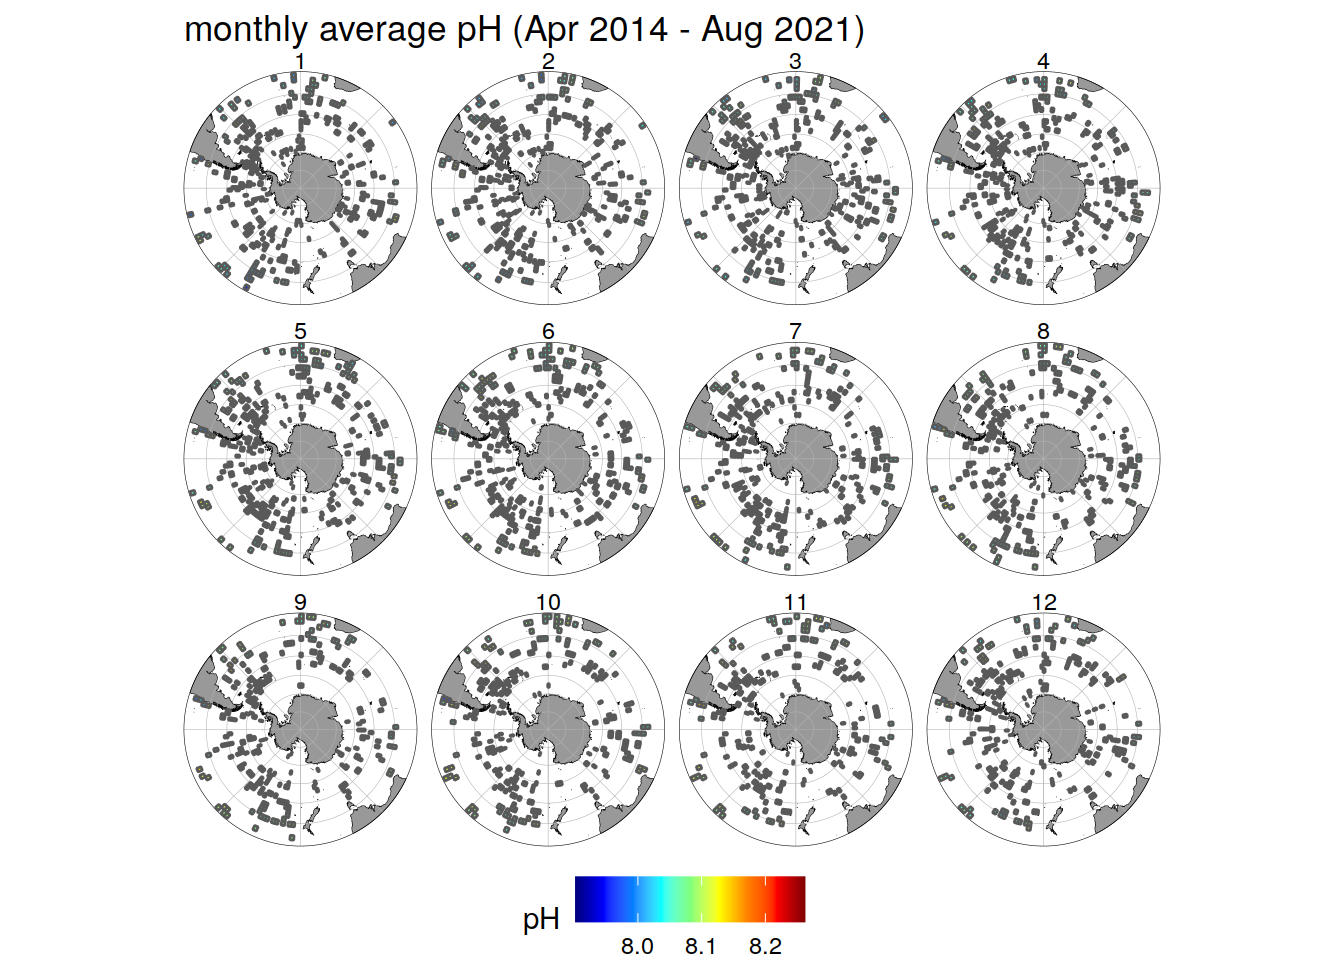
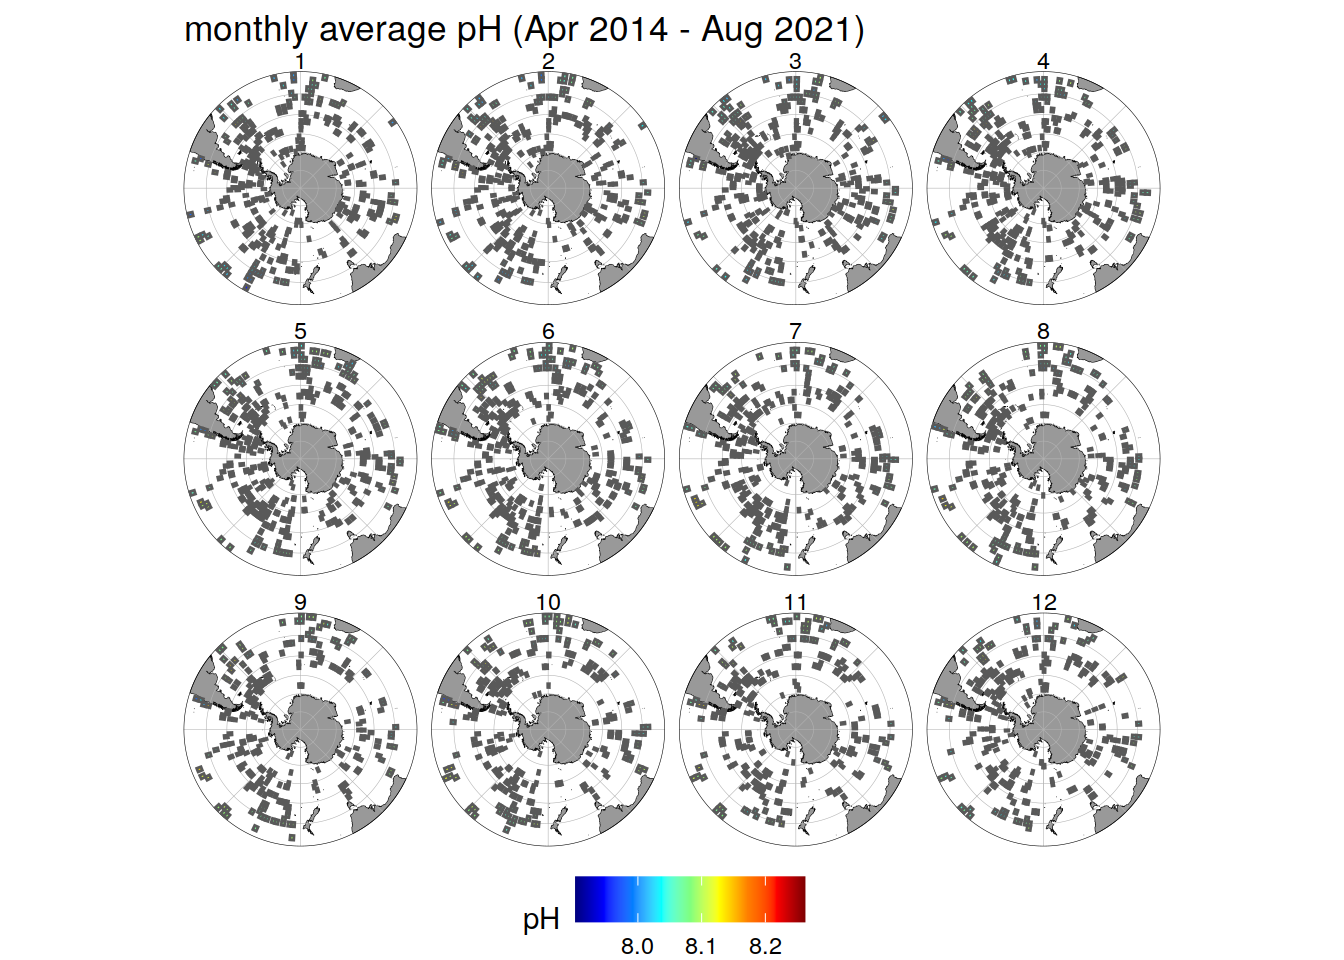
Build site.

diff --git a/docs/ph_data.html b/docs/ph_data.html
@@ -524,16 +524,16 @@ This reproducible <a href="http://rmarkdown.rstudio.com">R Markdown</a> analysis
 <div class="panel panel-default">
 <div class="panel-heading">
 <p class="panel-title">
-<a data-toggle="collapse" data-parent="#workflowr-checks" href="#strongRepositoryversionstrongahrefhttpsgithubcomjensdanielmuellerbgcargorargodatatreeb473f728abefd13fb3aeb09c431b50d32d4c4c72targetblankb473f72a"> <span class="glyphicon glyphicon-ok text-success" aria-hidden="true"></span> <strong>Repository version:</strong> <a href="https://github.com/jens-daniel-mueller/bgc_argo_r_argodata/tree/b473f728abefd13fb3aeb09c431b50d32d4c4c72" target="_blank">b473f72</a> </a>
+<a data-toggle="collapse" data-parent="#workflowr-checks" href="#strongRepositoryversionstrongahrefhttpsgithubcomjensdanielmuellerbgcargorargodatatree383aa57942918c5b9c07c0ab2740b1f9c556d115targetblank383aa57a"> <span class="glyphicon glyphicon-ok text-success" aria-hidden="true"></span> <strong>Repository version:</strong> <a href="https://github.com/jens-daniel-mueller/bgc_argo_r_argodata/tree/383aa57942918c5b9c07c0ab2740b1f9c556d115" target="_blank">383aa57</a> </a>
 </p>
 </div>
[2 lines of base64/hex data omitted]
 <div class="panel-body">
 <p>
 Great! You are using Git for version control. Tracking code development and connecting the code version to the results is critical for reproducibility.
 </p>
 <p>
-The results in this page were generated with repository version <a href="https://github.com/jens-daniel-mueller/bgc_argo_r_argodata/tree/b473f728abefd13fb3aeb09c431b50d32d4c4c72" target="_blank">b473f72</a>. See the <em>Past versions</em> tab to see a history of the changes made to the R Markdown and HTML files.
+The results in this page were generated with repository version <a href="https://github.com/jens-daniel-mueller/bgc_argo_r_argodata/tree/383aa57942918c5b9c07c0ab2740b1f9c556d115" target="_blank">383aa57</a>. See the <em>Past versions</em> tab to see a history of the changes made to the R Markdown and HTML files.
 </p>
 <p>
 Note that you need to be careful to ensure that all relevant files for the analysis have been committed to Git prior to generating the results (you can use <code>wflow_publish</code> or <code>wflow_git_commit</code>). workflowr only checks the R Markdown file, but you know if there are other scripts or data files that it depends on. Below is the status of the Git repository when the results were generated:
@@ -542,7 +542,6 @@ Note that you need to be careful to ensure that all relevant files for the analy
 Ignored files:
     Ignored:    .Rhistory
     Ignored:    .Rproj.user/
-    Ignored:    analysis/figure/
     Ignored:    output/
 
 Untracked files:
@@ -587,6 +586,40 @@ Message
 </tr>
 </thead>
 <tbody>
+<tr>
+<td>
+Rmd
+</td>
+<td>
+<a href="https://github.com/jens-daniel-mueller/bgc_argo_r_argodata/blob/383aa57942918c5b9c07c0ab2740b1f9c556d115/analysis/ph_data.Rmd" target="_blank">383aa57</a>
+</td>
+<td>
+pasqualina-vonlanthendinenna
+</td>
+<td>
+2021-11-16
+</td>
+<td>
+updated
+</td>
+</tr>
+<tr>
+<td>
+html
+</td>
+<td>
+<a href="https://rawcdn.githack.com/jens-daniel-mueller/bgc_argo_r_argodata/b6a26a1e405e6cfce6d6b87febb0f1b07efbd493/docs/ph_data.html" target="_blank">b6a26a1</a>
+</td>
+<td>
+pasqualina-vonlanthendinenna
+</td>
+<td>
+2021-11-16
+</td>
+<td>
+Build site.
+</td>
+</tr>
 <tr>
 <td>
 Rmd
@@ -905,7 +938,8 @@ pasqualina-vonlanthendinenna
             aes(x = lon,
                 y = lat,
                 fill = ph_ave_month),
-            linejoin = &#39;bevel&#39;)+
+            linejoin = &#39;mitre&#39;,
+            detail = 60)+
   scale_fill_gradientn(colors = oceColorsJet(n = ph_mean$ph_ave_month))+
   theme(legend.position = &#39;bottom&#39;)+
   labs(x = &#39;lon&#39;,
@@ -952,6 +986,17 @@ Date
 <tbody>
 <tr>
 <td>
+<a href="https://github.com/jens-daniel-mueller/bgc_argo_r_argodata/blob/b6a26a1e405e6cfce6d6b87febb0f1b07efbd493/docs/figure/ph_data.Rmd/using_ggOceanMap-1.png" target="_blank">b6a26a1</a>
+</td>
+<td>
+pasqualina-vonlanthendinenna
+</td>
+<td>
+2021-11-16
+</td>
+</tr>
+<tr>
+<td>
 <a href="https://github.com/jens-daniel-mueller/bgc_argo_r_argodata/blob/0dce5547398310ec35b036d6fb4adfbf8bdad790/docs/figure/ph_data.Rmd/using_ggOceanMap-1.png" target="_blank">0dce554</a>
 </td>
 <td>
@@ -965,7 +1010,7 @@ pasqualina-vonlanthendinenna
 </table>
 </div>
 </div>
-<pre class="r"><code># the squares look grey but it&#39;s because I haven&#39;t figured out how to remove the borders</code></pre>
+<pre class="r"><code># the squares look grey because I haven&#39;t figured out how to remove the borders</code></pre>
 </div>
 <div id="monthly-timeseries" class="section level4">
 <h4>Monthly timeseries</h4>
@@ -1181,6 +1226,17 @@ Date
 <tbody>
 <tr>
 <td>
+<a href="https://github.com/jens-daniel-mueller/bgc_argo_r_argodata/blob/b6a26a1e405e6cfce6d6b87febb0f1b07efbd493/docs/figure/ph_data.Rmd/northeast_pacific_climatological_pH_map-1.png" target="_blank">b6a26a1</a>
+</td>
+<td>
+pasqualina-vonlanthendinenna
+</td>
+<td>
+2021-11-16
+</td>
+</tr>
+<tr>
+<td>
 <a href="https://github.com/jens-daniel-mueller/bgc_argo_r_argodata/blob/273ed2cd668ca4a527d3255f189cdf066a5a6214/docs/figure/ph_data.Rmd/northeast_pacific_climatological_pH_map-1.png" target="_blank">273ed2c</a>
 </td>
 <td>
@@ -1251,6 +1307,17 @@ Date
 <tbody>
 <tr>
 <td>
+<a href="https://github.com/jens-daniel-mueller/bgc_argo_r_argodata/blob/b6a26a1e405e6cfce6d6b87febb0f1b07efbd493/docs/figure/ph_data.Rmd/monthly_pH_timeseries_pacific-1.png" target="_blank">b6a26a1</a>
+</td>
+<td>
+pasqualina-vonlanthendinenna
+</td>
+<td>
+2021-11-16
+</td>
+</tr>
+<tr>
+<td>
 <a href="https://github.com/jens-daniel-mueller/bgc_argo_r_argodata/blob/273ed2cd668ca4a527d3255f189cdf066a5a6214/docs/figure/ph_data.Rmd/monthly_pH_timeseries_pacific-1.png" target="_blank">273ed2c</a>
 </td>
 <td>
@@ -1311,6 +1378,17 @@ Date
 </tr>
 </thead>
 <tbody>
+<tr>
+<td>
+<a href="https://github.com/jens-daniel-mueller/bgc_argo_r_argodata/blob/b6a26a1e405e6cfce6d6b87febb0f1b07efbd493/docs/figure/ph_data.Rmd/monthly_pH_timeseries_per_year_nepacific-1.png" target="_blank">b6a26a1</a>
+</td>
+<td>
+pasqualina-vonlanthendinenna
+</td>
+<td>
+2021-11-16
+</td>
+</tr>
 <tr>
 <td>
 <a href="https://github.com/jens-daniel-mueller/bgc_argo_r_argodata/blob/273ed2cd668ca4a527d3255f189cdf066a5a6214/docs/figure/ph_data.Rmd/monthly_pH_timeseries_per_year_nepacific-1.png" target="_blank">273ed2c</a>
